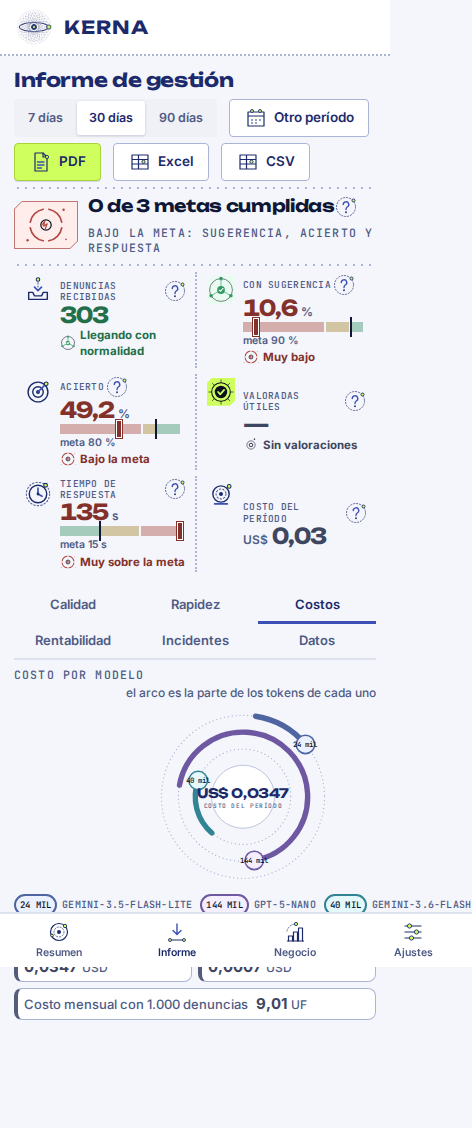
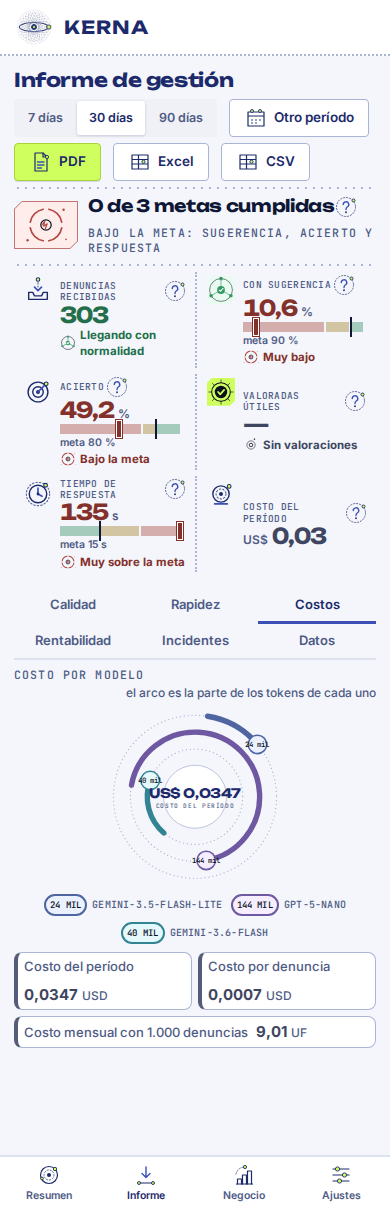
fix(front): satélites del diagrama orbital se ajustan a cifras largas, total largo más chico, chips de incidentes sin solaparse en móvil

diff --git a/kerna/front/app/estaticos/kerna.css b/kerna/front/app/estaticos/kerna.css
@@ -1006,9 +1006,10 @@ html,body{max-width:100%}
   .ly .lx{--s:18px!important}.ly svg.ani{width:56px;height:56px}
   .ly>span{text-align:center;font-size:11.5px;line-height:1.25}
   .ly-n em{display:none}.ly-n>span{display:block;font-weight:500;color:var(--muted)}
-  .ch-l{display:grid;grid-template-columns:repeat(3,minmax(0,1fr));gap:6px;width:100%}
-  .ch-l li{justify-content:center;gap:4px;padding:3px 4px;font-size:11.5px;min-width:0;white-space:nowrap}.ch-l .lx{--s:18px!important}.ch-l li b{font-size:12px}
+  .ch-l{gap:6px;width:100%}.ch-l li{gap:4px;padding:3px 8px;font-size:12px;min-width:0}.ch-l .lx{--s:18px!important}.ch-l li b{font-size:12px}
+  .ley-b .ch-l{display:grid;grid-template-columns:repeat(3,minmax(0,1fr))}.ley-b .ch-l li{justify-content:center;padding:3px 4px;font-size:11.5px;white-space:nowrap}
   .ch-l li .ly-n em,.ch-l li .ly-n>span{display:none}
+  .orb-n{font-size:11px}
   .cch{height:150px}
   .tabs2{display:grid;grid-template-columns:repeat(3,minmax(0,1fr));gap:0 4px;overflow:visible}
   .tabs2 button{justify-content:center;min-height:38px;padding:6px 4px;font-size:13px}.tabs2 .t-datos{margin-left:0}

diff --git a/kerna/front/app/orbital.py b/kerna/front/app/orbital.py
@@ -67,6 +67,11 @@ def angulos_satelites(n: int) -> list[float]:
     return [math.radians(50 + i * 360 / max(n, 1)) for i in range(n)]
 
 
+def radio_satelite(txt: str) -> float:
+    """Radio del satélite según el largo de su cifra («271» cabe en 12; «144 mil» pide más)."""
+    return 12.0 if len(str(txt)) <= 3 else min(10 + 1.9 * len(str(txt)), 22.0)
+
+
 def geometria_orbital(anillos: list[dict], total: str) -> dict:
     """Geometría del diagrama orbital en el sistema del SVG (260 x 236, y hacia abajo); la usan el SVG de la vista y el dibujo vectorial del PDF."""
     anillos = [a for a in anillos if a["v"] > 0] or anillos[:1]
@@ -79,8 +84,9 @@ def geometria_orbital(anillos: list[dict], total: str) -> dict:
     for a, r, fin in zip(anillos, rs, angulos_satelites(len(anillos))):
         frac = max(a["v"] / tot, .012)
         sx, sy = _punto(cx, cy, r, fin)
-        filas.append({**a, "r": r, "fin": fin, "frac": frac, "sx": sx, "sy": sy})
-    return {"cx": cx, "cy": cy, "w": w, "h": h, "nuc": nuc, "anillos": filas, "grande": len(str(total)) <= 4 and nuc > 34}
+        filas.append({**a, "r": r, "fin": fin, "frac": frac, "sx": sx, "sy": sy, "rs": radio_satelite(a["txt"])})
+    grande = len(str(total)) <= 4 and nuc > 34
+    return {"cx": cx, "cy": cy, "w": w, "h": h, "nuc": nuc, "anillos": filas, "grande": grande, "fs": 26 if grande else (17 if len(str(total)) <= 6 else 12)}
 
 
 def diagrama_orbital(anillos: list[dict], total: str, unidad: str, etiqueta_total: str = "") -> Markup:
@@ -96,11 +102,11 @@ def diagrama_orbital(anillos: list[dict], total: str, unidad: str, etiqueta_tota
         o.append(f'<circle cx="{cx}" cy="{cy}" r="{_p(r)}" class="orb-b"/>')
         o.append(f'<path d="{_arco(cx, cy, r, a["frac"], a["fin"])}" class="orb-a" style="stroke:var(--c-{c})"/>')
         sx, sy = a["sx"], a["sy"]
-        o.append(f'<circle cx="{_p(sx)}" cy="{_p(sy)}" r="12" class="orb-s" style="fill:var(--c-{c}-bg);stroke:var(--c-{c})"/>'
+        o.append(f'<circle cx="{_p(sx)}" cy="{_p(sy)}" r="{_p(a["rs"])}" class="orb-s" style="fill:var(--c-{c}-bg);stroke:var(--c-{c})"/>'
                  f'<text x="{_p(sx)}" y="{_p(sy + 3.4)}" class="orb-n" text-anchor="middle">{escape(a["txt"])}</text>')
         lg.append(f'<li style="--c:var(--c-{c});--cb:var(--c-{c}-bg)"><i aria-hidden="true">{escape(a["txt"])}</i><span>{escape(a["n"])}</span></li>')
     o.append(f'<circle cx="{cx}" cy="{cy}" r="{_p(nuc)}" class="orb-c"/>')
-    o.append(f'<text x="{cx}" y="{_p(cy + (3 if grande else 2))}" class="orb-t" style="font-size:{26 if grande else 17}px" text-anchor="middle">{escape(total)}</text>'
+    o.append(f'<text x="{cx}" y="{_p(cy + (3 if grande else 2))}" class="orb-t" style="font-size:{g["fs"]}px" text-anchor="middle">{escape(total)}</text>'
              f'<text x="{cx}" y="{_p(cy + (17 if grande else 14))}" class="orb-u" text-anchor="middle">{escape(unidad)}</text></svg>')
     return Markup(f'<div class="orb-w">{"".join(o)}<ul class="orb-lg">{"".join(lg)}</ul></div>')
 

diff --git a/kerna/pruebas/unitarias/test_front_rediseno.py b/kerna/pruebas/unitarias/test_front_rediseno.py
@@ -325,7 +325,7 @@ def test_exportaciones_visibles_en_porcentaje(inf):
 
 # ---- diagrama orbital: satélites y leyenda sin superposición --------------------------------------------------------------
 def _satelites(html):
-    return [(float(x), float(y)) for x, y in re.findall(r'<circle cx="([\d.]+)" cy="([\d.]+)" r="12" class="orb-s"', html)]
+    return [(float(x), float(y)) for x, y, _ in re.findall(r'<circle cx="([\d.]+)" cy="([\d.]+)" r="([\d.]+)" class="orb-s"', html)]
 
 
 @pytest.mark.parametrize("n", [1, 2, 3, 4])
@@ -409,3 +409,9 @@ def test_pdf_con_rentabilidad_dibuja_cascada_y_proyeccion(inf):
     assert len(v["cascada"]["labels"]) == 7 and len(v["proyeccion"]) == 5
     texto = " ".join(p.extract_text() for p in PdfReader(io.BytesIO(exportar.a_pdf(inf2))).pages)
     assert "Del ingreso a la utilidad" in texto and "Proyección a cinco años" in texto
+
+
+def test_satelite_con_cifra_larga_crece_y_el_total_largo_se_achica():
+    from app import orbital
+    g = orbital.geometria_orbital([{"n": "a", "v": 3, "txt": "144 mil", "c": "azul"}, {"n": "b", "v": 1, "txt": "9", "c": "verde"}], "US$ 0,0347")
+    assert g["anillos"][0]["rs"] > 12 and g["anillos"][1]["rs"] == 12 and g["fs"] < 17

diff --git a/kerna/front/app/pdf_orbital.py b/kerna/front/app/pdf_orbital.py
@@ -78,12 +78,12 @@ class Orbital(_Base):
             c.arc(cx - r, cy - r, cx + r, cy + r, 90 - math.degrees(a["fin"]), min(a["frac"], .9999) * 360)
             c.restoreState()
             c.setFillColor(_c(CAT_BG[a["c"]])); c.setStrokeColor(col); c.setLineWidth(2 * k)
-            c.circle(X(a["sx"]), Y(a["sy"]), 12 * k, stroke=1, fill=1)
+            c.circle(X(a["sx"]), Y(a["sy"]), a["rs"] * k, stroke=1, fill=1)
             _centrado(c, X(a["sx"]), Y(a["sy"] + 3.4), a["txt"], "Mono", (8.6 if len(a["txt"]) <= 3 else 6.6 if len(a["txt"]) <= 5 else 5.4) * k, _c("#0B1020"))
         c.setFillColor(_c("#FFFFFF")); c.setStrokeColor(PUNTOS); c.setLineWidth(.8)
         c.circle(cx, cy, g["nuc"] * k, stroke=1, fill=1)
         grande = g["grande"]
-        _centrado(c, cx, Y(g["cy"] + (3 if grande else 2)), self.total, "Unbounded", (26 if grande else 17) * k, TINTA)
+        _centrado(c, cx, Y(g["cy"] + (3 if grande else 2)), self.total, "Unbounded", g["fs"] * k, TINTA)
         _centrado(c, cx, Y(g["cy"] + (17 if grande else 14)), self.unidad.upper(), "Mono", 6.4 * k, SEC)
         # leyenda directa a la derecha del diagrama
         x0, y = g["w"] * k + 22, self.height / 2 + len(g["anillos"]) * 13

diff --git a/kerna/front/herramientas/medir_vistas.py b/kerna/front/herramientas/medir_vistas.py
@@ -31,6 +31,7 @@ with sync_playwright() as p:
                 if pref != "-":
                     pg.evaluate("() => { if (!document.getElementById('__cap')) { const s = document.createElement('style'); s.id = '__cap'; s.textContent = 'nav.tabbar{position:static!important}'; document.head.appendChild(s) } }")  # la barra inferior fija no tapa el contenido en la captura de página completa
                     pg.screenshot(path=f"{pref}{clave_v}-{'m' if w < 600 else 'd'}{'' if w in (390, 1366) else w}.png", full_page=True)
+                    pg.evaluate("() => document.getElementById('__cap')?.remove()")
         ctx.close()
     nav.close()
 json.dump(res, open(salida, "w"), ensure_ascii=False, indent=1)
